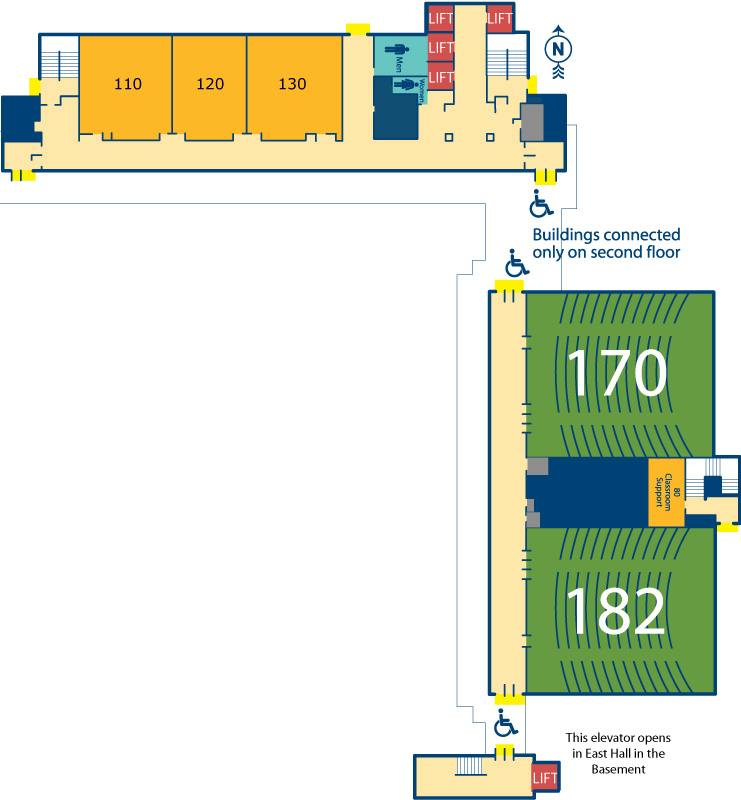
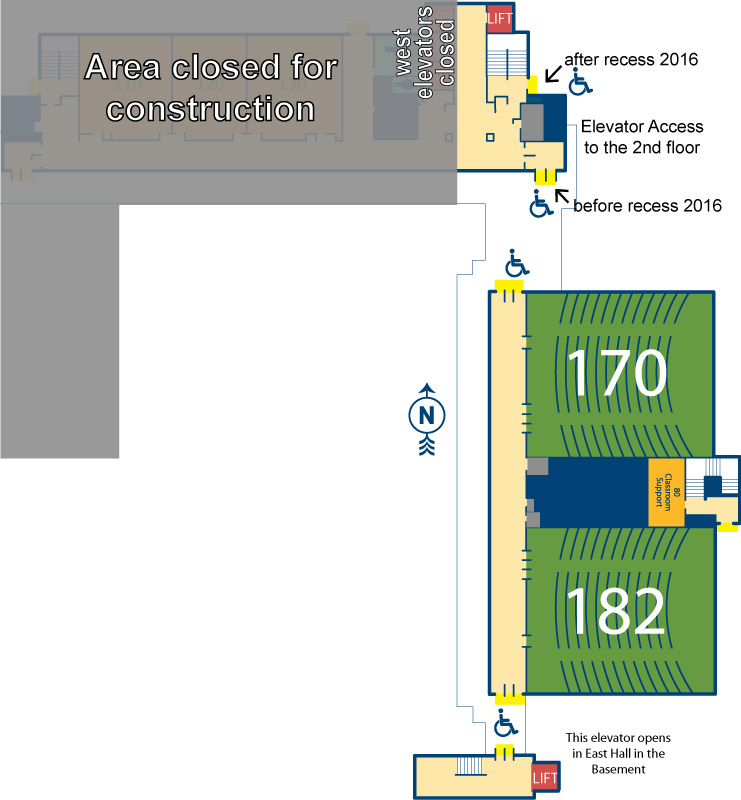
Update maps

diff --git a/public/maps/weis1.html b/public/maps/weis1.html
@@ -1,4 +1,3 @@
-
 <!DOCTYPE html>
 <head>
 <title>Weiser Hall - First Floor</title>
@@ -17,10 +16,10 @@ a:hover{text-decoration:underline}
 </head>
 <body>
 <img src="weis1.jpg" alt="Image Denninson - ground" width="741" height="800" border="0" usemap="#weis1" />
-<p class="bldg" style="left:50px; top:236px; z-index:0;">Weiser Hall Building First Floor</p>
-<p style="left:50px; top:300px;">Other Floors with Classrooms:</p>
-<a style="left:50px; top:340px;" href="weis2.html" title="link to 2nd Floor" alt="link to 2nd Floor"><b>link to 2nd Floor</b></a>
-<a style="left:50px; top:370px;" href="index.html"  alt="link campus map" title="link to campus map"><b>link to campus map</b></a>
+<p class="bldg" style="left:150px; top:236px; z-index:0;">Weiser Hall, First Floor</p>
+<p style="left:150px; top:300px;">Other Floors with Classrooms:</p>
+<a style="left:150px; top:340px;" href="weis2.html" title="link to 2nd Floor" alt="link to 2nd Floor"><b>link to 2nd Floor</b></a>
+<a style="left:150px; top:370px;" href="index.html"  alt="link campus map" title="link to campus map"><b>link to campus map</b></a>
 
 <map name="weis1" id="weis1">
   <area shape="rect" coords="526,295,711,453" href="../classrooms/WEIS170" target="_self" alt="Link to data room 170" title="Link to data room 170" />
@@ -28,4 +27,4 @@ a:hover{text-decoration:underline}
   <area shape="rect" coords="523,755,566,795" href="ehb.html" alt="go to East Hall" title="go to East Hall" />
 </map>
 </body>
-</html>
+</html>

diff --git a/public/maps/weis2.html b/public/maps/weis2.html
@@ -15,10 +15,10 @@ a:hover{text-decoration:underline}
 </head>
 <body>
 <img src="weis2.jpg" alt="Image of the second floor of Weiser Hall" width="741" height="800" border="0" usemap="#weis2" />
-<p class="bldg" style="left:50px; top:240px;">Weiser Hall Building Second Floor</p>
-<p style="left:50px; top:300px;">Other Floors with Classrooms:</p>
-<a style="left:50px; top:340px;" href="weis1.html" title="link to 1st Floor" alt="link to 1st Floor"><b>link to 1st Floor</b></a>
-<a style="left:50px; top:370px;" href="index.html"  alt="link campus map" title="link to campus map"><b>link to campus map</b></a>
+<p class="bldg" style="left:130px; top:240px;">Weiser Hall, Second Floor</p>
+<p style="left:150px; top:300px;">Other Floors with Classrooms:</p>
+<a style="left:150px; top:340px;" href="weis1.html" title="link to 1st Floor" alt="link to 1st Floor"><b>link to 1st Floor</b></a>
+<a style="left:150px; top:370px;" href="index.html"  alt="link campus map" title="link to campus map"><b>link to campus map</b></a>
 
 <map name="weis2" id="weis2">
   <area shape="rect" coords="88,2,111,83" href="ccl2.html" target="_self" alt="Link to 2nd floor ccl" title="Link to 2nd floor ccl" />
@@ -30,4 +30,4 @@ a:hover{text-decoration:underline}
   <area shape="rect" coords="527,619,712,719" href="../classrooms/WEIS296" target="_self" alt="Link to data room 296" title="Link to data room 296" />
 </map>
 </body>
-</html>
+</html>
